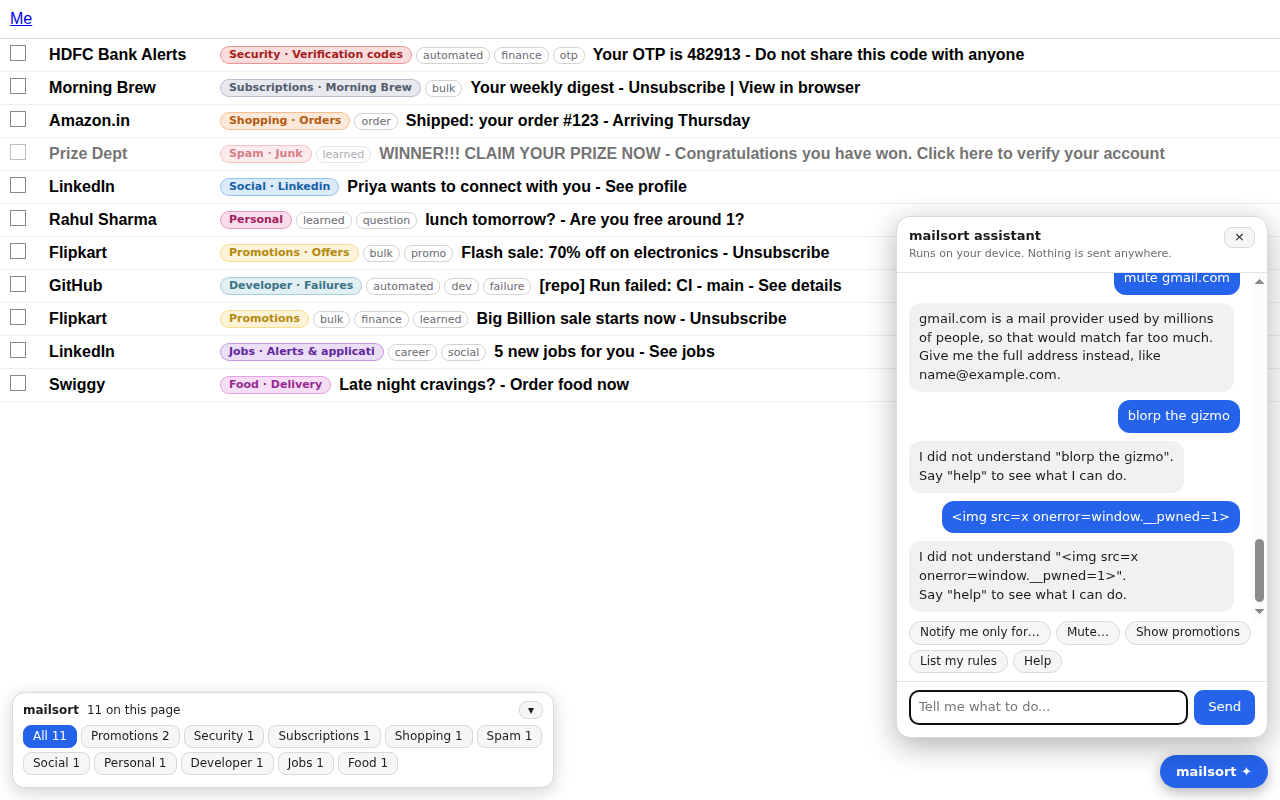
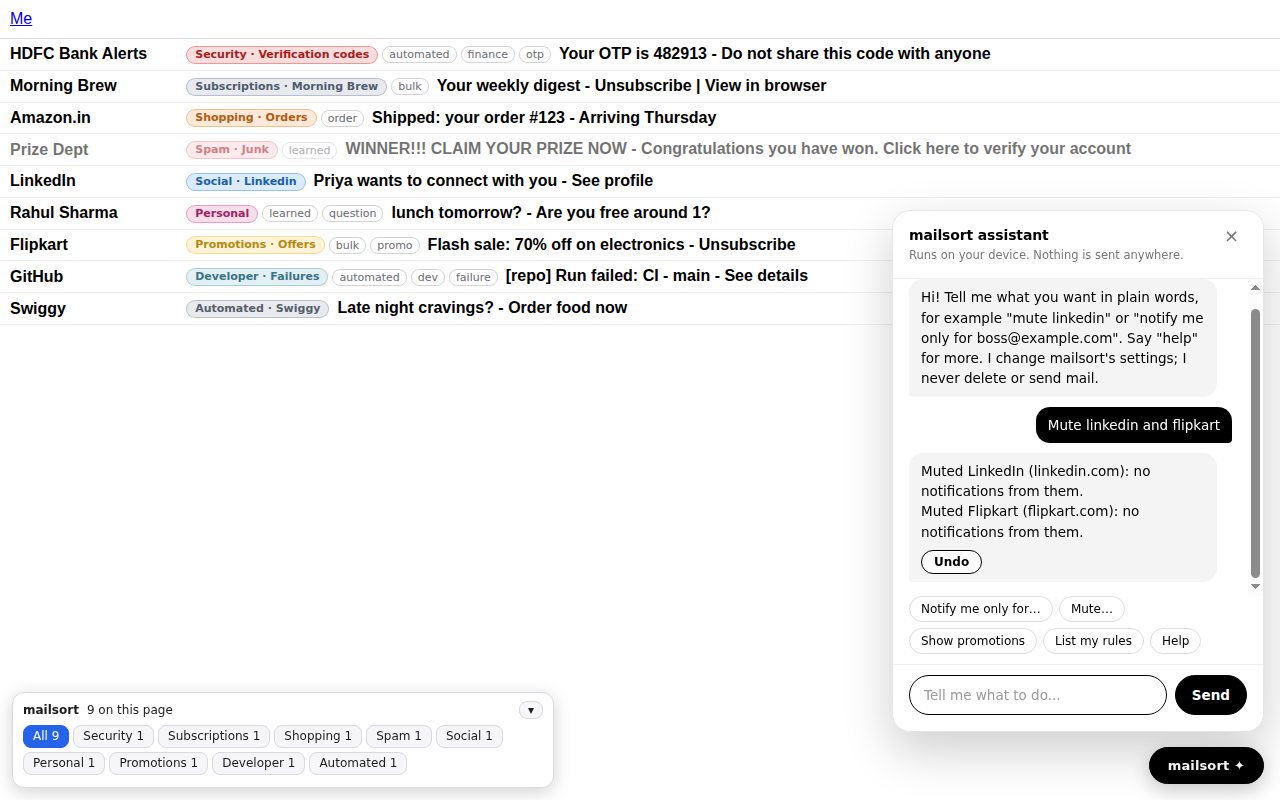
Black and white chat box

diff --git a/extension/src/content/content.css b/extension/src/content/content.css
@@ -34,21 +34,30 @@
 #ms-toast button{background:transparent;color:#8ab4ff;border-color:#555}
 .ms-badge:focus-visible{outline:2px solid #2563eb;outline-offset:1px}
 @media (prefers-color-scheme:dark){#ms-welcome{background:#202124;color:#e8eaed;border-color:#3c4043}#ms-welcome button{background:#303134;color:#e8eaed;border-color:#3c4043}}
-#ms-chat-btn{position:fixed;right:12px;bottom:12px;z-index:2147483000;font:600 13px system-ui,-apple-system,Segoe UI,Roboto,sans-serif;background:#2563eb;color:#fff;border:0;border-radius:999px;padding:9px 16px;cursor:pointer;box-shadow:0 4px 14px rgba(0,0,0,.3)}
-#ms-chat-btn:focus-visible{outline:3px solid #93b4ff;outline-offset:2px}
-#ms-chat{position:fixed;right:12px;bottom:62px;z-index:2147483001;width:370px;max-width:calc(100vw - 24px);height:min(520px,calc(100vh - 90px));display:flex;flex-direction:column;background:#fff;color:#1c1c1e;
-  border:1px solid #d9d9de;border-radius:14px;box-shadow:0 8px 30px rgba(0,0,0,.3);font:13px/1.45 system-ui,-apple-system,Segoe UI,Roboto,sans-serif}
-#ms-chat .ms-c-head{display:flex;align-items:flex-start;gap:8px;padding:10px 12px;border-bottom:1px solid #e4e4e8}#ms-chat .ms-c-sub{font-size:11px;color:#6b6b73}
-#ms-chat .ms-c-x{margin-left:auto;font:inherit;cursor:pointer;border:1px solid #d9d9de;background:#f6f6f8;color:inherit;border-radius:8px;padding:0 9px}
-#ms-chat .ms-c-log{flex:1;overflow-y:auto;padding:10px 12px;display:flex;flex-direction:column;gap:8px}
-#ms-chat .ms-c-msg{max-width:92%;padding:7px 10px;border-radius:12px;white-space:pre-wrap;word-break:break-word}
-#ms-chat .ms-c-user{align-self:flex-end;background:#2563eb;color:#fff}#ms-chat .ms-c-bot{align-self:flex-start;background:#f1f1f4}
-#ms-chat .ms-c-undo{display:block;margin-top:6px;font:inherit;font-size:12px;cursor:pointer;border:1px solid #c9c9d1;background:#fff;color:#1c1c1e;border-radius:8px;padding:1px 9px}
-#ms-chat .ms-c-chips{display:flex;flex-wrap:wrap;gap:5px;padding:0 12px 8px}
-#ms-chat .ms-c-chips button{font:inherit;font-size:12px;cursor:pointer;border:1px solid #d9d9de;background:#f6f6f8;color:inherit;border-radius:999px;padding:2px 10px}
-#ms-chat .ms-c-form{display:flex;gap:6px;padding:8px 12px 12px;border-top:1px solid #e4e4e8}
-#ms-chat input{flex:1;min-width:0;font:inherit;border:1px solid #c9c9d1;border-radius:9px;padding:7px 9px;background:#fff;color:#1c1c1e}
-#ms-chat .ms-c-send{font:inherit;cursor:pointer;border:0;background:#2563eb;color:#fff;border-radius:9px;padding:0 14px}
-#ms-welcome{bottom:62px}
-@media (prefers-color-scheme:dark){#ms-chat{background:#202124;color:#e8eaed;border-color:#3c4043}#ms-chat .ms-c-head,#ms-chat .ms-c-form{border-color:#3c4043}
-  #ms-chat .ms-c-bot{background:#303134}#ms-chat input{background:#303134;color:#e8eaed;border-color:#3c4043}#ms-chat .ms-c-undo,#ms-chat .ms-c-chips button,#ms-chat .ms-c-x{background:#303134;color:#e8eaed;border-color:#3c4043}}
+#ms-chat-btn{position:fixed;right:16px;bottom:16px;z-index:2147483000;font:600 13px/1 system-ui,-apple-system,Segoe UI,Roboto,sans-serif;letter-spacing:.01em;background:#000;color:#fff;border:1px solid #000;border-radius:999px;padding:11px 18px;cursor:pointer;box-shadow:0 6px 20px rgba(0,0,0,.22);transition:background .15s,color .15s}
+#ms-chat-btn:hover{background:#fff;color:#000}
+#ms-chat-btn:focus-visible{outline:2px solid #000;outline-offset:3px}
+#ms-chat{position:fixed;right:16px;bottom:68px;z-index:2147483001;width:370px;max-width:calc(100vw - 24px);height:min(520px,calc(100vh - 96px));display:flex;flex-direction:column;background:#fff;color:#000;
+  border:1px solid #e6e6e6;border-radius:18px;box-shadow:0 18px 50px rgba(0,0,0,.2);font:13.5px/1.5 system-ui,-apple-system,Segoe UI,Roboto,sans-serif;overflow:hidden}
+#ms-chat .ms-c-head{display:flex;align-items:flex-start;gap:8px;padding:14px 16px;border-bottom:1px solid #efefef}#ms-chat .ms-c-head b{font-size:14px;letter-spacing:-.01em}#ms-chat .ms-c-sub{font-size:11.5px;color:#777;margin-top:1px}
+#ms-chat .ms-c-x{margin-left:auto;font:inherit;font-size:18px;line-height:1;cursor:pointer;border:0;background:transparent;color:#777;border-radius:8px;padding:2px 8px}#ms-chat .ms-c-x:hover{color:#000;background:#f2f2f2}
+#ms-chat .ms-c-log{flex:1;overflow-y:auto;padding:14px 16px;display:flex;flex-direction:column;gap:10px}
+#ms-chat .ms-c-msg{max-width:88%;padding:8px 12px;border-radius:14px;white-space:pre-wrap;word-break:break-word}
+#ms-chat .ms-c-user{align-self:flex-end;background:#000;color:#fff;border-bottom-right-radius:4px}#ms-chat .ms-c-bot{align-self:flex-start;background:#f4f4f4;color:#000;border-bottom-left-radius:4px}
+#ms-chat .ms-c-undo{display:inline-block;margin:8px 6px 0 0;font:inherit;font-size:12px;font-weight:600;cursor:pointer;border:1px solid #000;background:#fff;color:#000;border-radius:999px;padding:2px 12px}#ms-chat .ms-c-undo:hover{background:#000;color:#fff}
+#ms-chat .ms-c-chips{display:flex;flex-wrap:wrap;gap:6px;padding:0 16px 10px}
+#ms-chat .ms-c-chips button{font:inherit;font-size:12px;cursor:pointer;border:1px solid #ddd;background:#fff;color:#000;border-radius:999px;padding:3px 11px}#ms-chat .ms-c-chips button:hover{border-color:#000}
+#ms-chat .ms-c-form{display:flex;gap:8px;padding:10px 16px 16px;border-top:1px solid #efefef}
+#ms-chat input{flex:1;min-width:0;font:inherit;border:1px solid #ddd;border-radius:999px;padding:9px 14px;background:#fff;color:#000}#ms-chat input:focus{outline:none;border-color:#000}#ms-chat input::placeholder{color:#999}
+#ms-chat .ms-c-send{font:inherit;font-weight:600;cursor:pointer;border:1px solid #000;background:#000;color:#fff;border-radius:999px;padding:0 16px}#ms-chat .ms-c-send:hover{background:#fff;color:#000}
+#ms-chat button:focus-visible{outline:2px solid #000;outline-offset:2px}
+#ms-welcome{bottom:68px}
+@media (prefers-color-scheme:dark){#ms-chat{background:#0a0a0a;color:#fff;border-color:#2a2a2a}#ms-chat .ms-c-head,#ms-chat .ms-c-form{border-color:#222}#ms-chat .ms-c-sub{color:#999}
+  #ms-chat .ms-c-x{color:#999}#ms-chat .ms-c-x:hover{color:#fff;background:#1c1c1c}
+  #ms-chat .ms-c-user{background:#fff;color:#000}#ms-chat .ms-c-bot{background:#1a1a1a;color:#fff}
+  #ms-chat input{background:#0a0a0a;color:#fff;border-color:#333}#ms-chat input:focus{border-color:#fff}
+  #ms-chat .ms-c-undo{background:#0a0a0a;color:#fff;border-color:#fff}#ms-chat .ms-c-undo:hover{background:#fff;color:#000}
+  #ms-chat .ms-c-chips button{background:#0a0a0a;color:#fff;border-color:#333}#ms-chat .ms-c-chips button:hover{border-color:#fff}
+  #ms-chat .ms-c-send{background:#fff;color:#000;border-color:#fff}#ms-chat .ms-c-send:hover{background:#0a0a0a;color:#fff}
+  #ms-chat button:focus-visible{outline-color:#fff}
+  #ms-chat-btn{background:#fff;color:#000;border-color:#fff}#ms-chat-btn:hover{background:#000;color:#fff}#ms-chat-btn:focus-visible{outline-color:#fff}}
